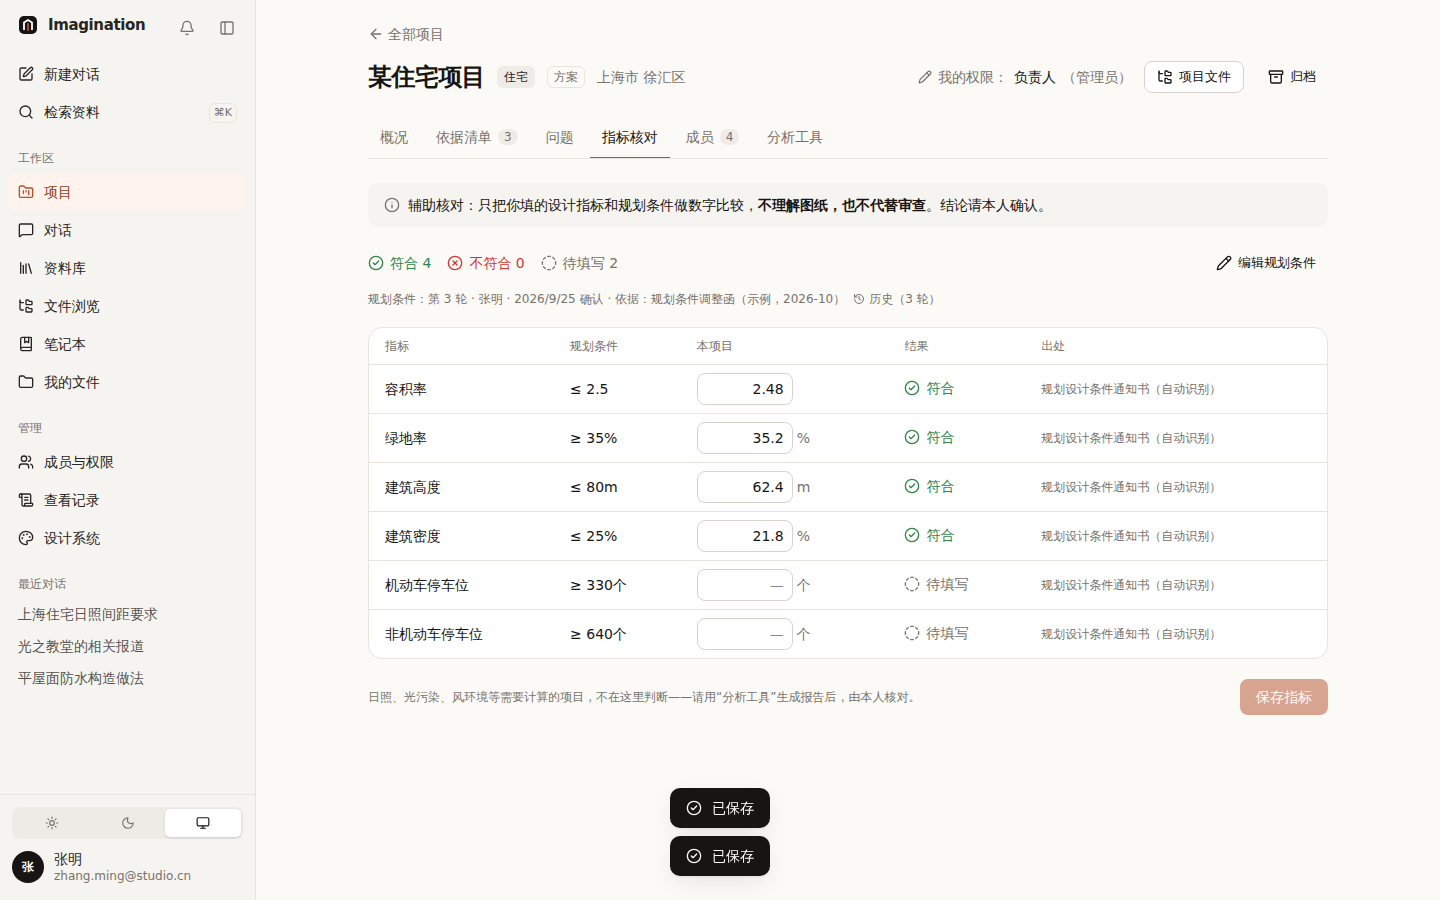
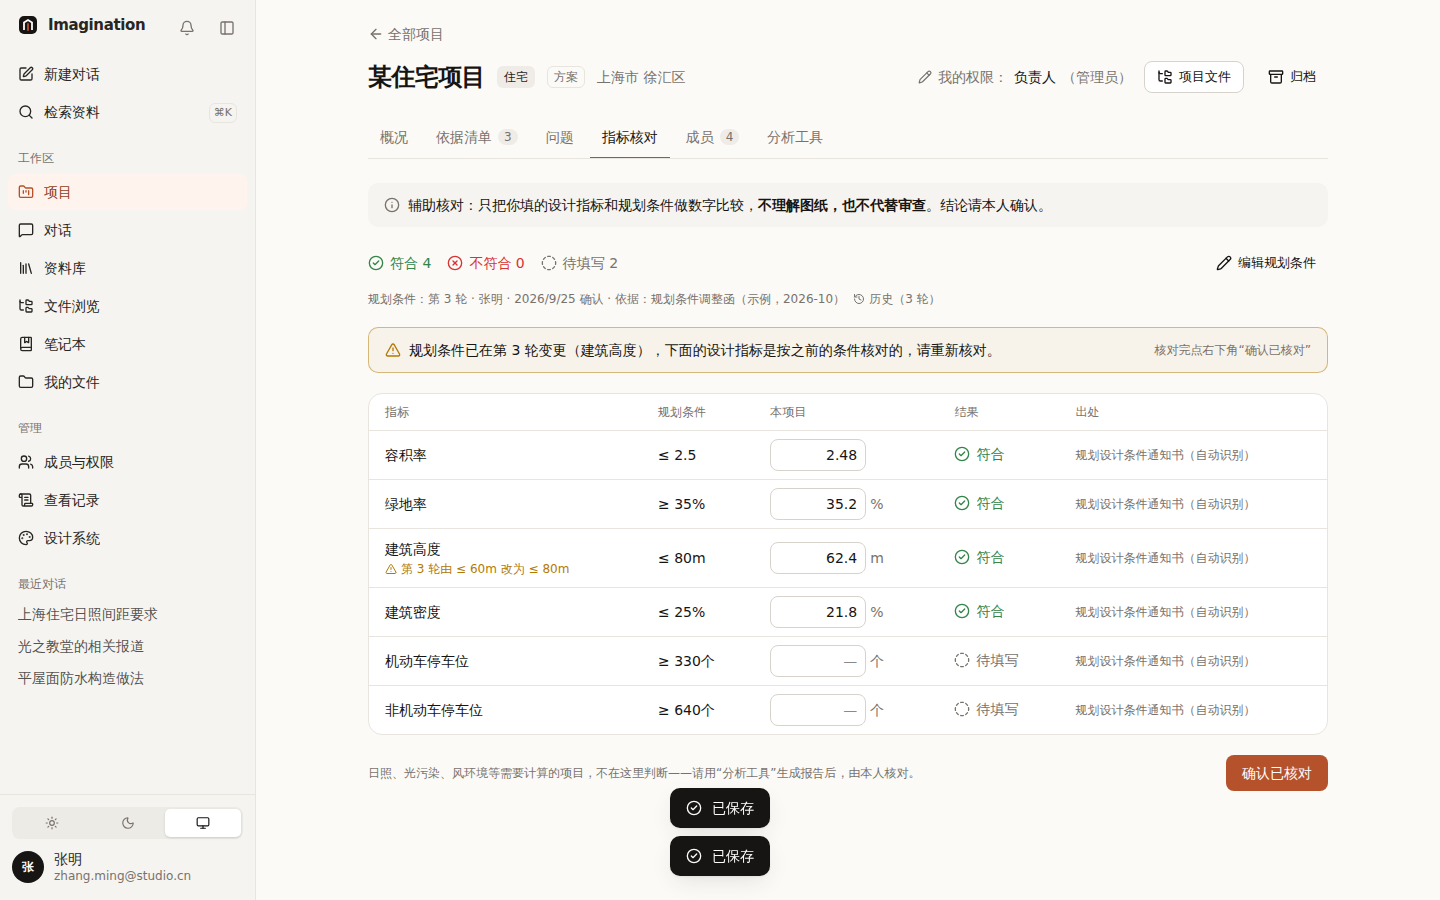
Prompt to recheck metrics after planning conditions change
Compare the round in effect at the last metrics check with the current
round; flag added/changed conditions, show the before/after on each row,
and let editors confirm with 确认已核对. Also store the original conditions
as round 1 before the first update so history diffs are correct.

Claude-Session: https://claude.ai/code/session_01Ji4dkRSRW8GH812x2RhLLd

diff --git a/src/components/projects/checks-tab.tsx b/src/components/projects/checks-tab.tsx
@@ -1,12 +1,12 @@
 "use client"
 
 import { useState } from "react"
-import { CheckCircle2Icon, CircleDashedIcon, FileSearchIcon, HistoryIcon, InfoIcon, PencilIcon, XCircleIcon } from "lucide-react"
+import { AlertTriangleIcon, CheckCircle2Icon, CircleDashedIcon, FileSearchIcon, HistoryIcon, InfoIcon, PencilIcon, XCircleIcon } from "lucide-react"
 
 import { Button } from "@/components/ui/button"
 import { runChecks, type CheckStatus } from "@/lib/projects/checks"
 import type { Condition, Project } from "@/lib/projects/types"
-import type { ConditionRound } from "@/lib/projects/condition-rounds"
+import { diffConditions, fmtCondition, type ConditionRound } from "@/lib/projects/condition-rounds"
 import { ConditionHistory } from "./condition-history"
 import { ConditionsEditor } from "./conditions-editor"
 import { cn } from "@/lib/utils"
@@ -56,6 +56,16 @@ export function ChecksTab({
   const dirty = project.conditions.some((c) => (project.metrics[c.key]?.toString() ?? "") !== draft[c.key])
   const counts = { pass: 0, fail: 0, missing: 0 }
   rows.forEach((r) => counts[r.status]++)
+
+  // 规划条件在最新一轮里变了（新增 / 修改），而设计指标还是之前核对的 → 提示重新核对（已定）
+  // 对比的基准：上次核对指标时生效的那一轮（中间改过好几轮也都算上）
+  const checkedAt = project.metricsCheckedAt ?? project.createdAt ?? 0
+  const baseline = [...rounds].reverse().find((r) => r.savedAt <= checkedAt) ?? rounds[0]
+  const changed =
+    current && baseline && baseline !== current && current.savedAt > checkedAt
+      ? diffConditions(baseline.conditions, current.conditions).filter((c) => c.kind !== "removed")
+      : []
+  const recheck = new Map(changed.map((c) => [c.label, c]))
 
   if (project.conditions.length === 0)
     return (
@@ -120,6 +130,15 @@ export function ChecksTab({
           </button>
         </p>
       )}
+      {changed.length > 0 && (
+        <p role="alert" className="flex flex-wrap items-center gap-2 rounded-lg border border-warning/50 bg-warning/5 px-4 py-3 text-sm">
+          <AlertTriangleIcon className="size-4 shrink-0 text-warning" />
+          <span className="min-w-0 flex-1">
+            规划条件在第 {baseline!.round + 1}{current!.round > baseline!.round + 1 ? `–${current!.round}` : ""} 轮有变更（{changed.map((c) => c.label).join("、")}），下面的设计指标是按之前的条件核对的，请重新核对。
+          </span>
+          {canEdit && <span className="text-xs text-muted-foreground">核对完点右下角“确认已核对”</span>}
+        </p>
+      )}
       {editorEl}
       <ConditionHistory open={history} onOpenChange={setHistory} rounds={rounds} />
 
@@ -139,7 +158,18 @@ export function ChecksTab({
               const { label, icon: Icon, cls } = STATUS[status]
               return (
                 <tr key={c.key} className="border-b last:border-0">
-                  <td className="px-4 py-2.5 font-medium">{c.label}</td>
+                  <td className="px-4 py-2.5 font-medium">
+                    {c.label}
+                    {recheck.has(c.label) && (
+                      <span className="mt-0.5 flex items-center gap-1 text-xs font-normal text-warning">
+                        <AlertTriangleIcon className="size-3" />
+                        {(() => {
+                          const ch = recheck.get(c.label)!
+                          return ch.kind === "changed" ? `由 ${fmtCondition(ch.before)} 改为 ${fmtCondition(ch.after)}` : "新增的条件"
+                        })()}
+                      </span>
+                    )}
+                  </td>
                   <td className="px-4 py-2.5 tabular-nums">
                     {c.op === "<=" ? "≤" : c.op === ">=" ? "≥" : "="} {c.value}
                     {c.unit}
@@ -180,10 +210,11 @@ export function ChecksTab({
         {canEdit && (
           <Button
             className="ml-auto"
-            disabled={!dirty}
+            // 需要重新核对时，即使数字没改也可以“确认已核对”
+            disabled={!dirty && changed.length === 0}
             onClick={() => onSave({ metrics: preview.metrics as Record<string, number | undefined> })}
           >
-            保存指标
+            {dirty ? "保存指标" : changed.length ? "确认已核对" : "保存指标"}
           </Button>
         )}
       </div>

diff --git a/src/lib/server/condition-rounds.ts b/src/lib/server/condition-rounds.ts
@@ -29,10 +29,17 @@ export function listRounds(p: Project): ConditionRound[] {
   return rounds
 }
 
+/**
+ * 修改规划条件之前调用（传入修改前的项目）：把“初始录入”存成正式的第 1 轮，
+ * 否则第 1 轮会被误算成修改后的内容，看不出改了什么。
+ */
+export function ensureBaselineRound(before: Project) {
+  const existing = listRounds(before)
+  if (existing.length === 1 && existing[0].id === `${before.id}-r0`) store.set(existing[0].id, existing[0])
+}
+
 export function addRound(p: Project, conditions: Condition[], by: string, note?: string): ConditionRound {
   const existing = listRounds(p)
-  // 第一次保存时，把之前的“初始录入”也存成正式的第 1 轮，历史才完整
-  if (existing.length === 1 && existing[0].id === `${p.id}-r0`) store.set(existing[0].id, existing[0])
   const r: ConditionRound = {
     id: `cr${Date.now().toString(36)}${Math.random().toString(36).slice(2, 6)}`,
     projectId: p.id,

diff --git a/src/app/api/projects/[id]/route.ts b/src/app/api/projects/[id]/route.ts
@@ -1,6 +1,6 @@
 import { NextResponse } from "next/server"
 
-import { addRound } from "@/lib/server/condition-rounds"
+import { addRound, ensureBaselineRound } from "@/lib/server/condition-rounds"
 import { getCurrentUser } from "@/lib/server/current-user"
 import { canEditContent, canManage, canView, getProject, patchNeeds, updateProject, type ProjectPatch } from "@/lib/server/projects"
 
@@ -30,6 +30,7 @@ export async function PATCH(req: Request, ctx: RouteContext<"/api/projects/[id]"
       { error: patchNeeds(patch) === "manage" ? "只有项目负责人可以修改项目信息和成员权限" : "你在这个项目里是“仅浏览”，不能修改" },
       { status: 403 },
     )
+  if (patch.conditions) ensureBaselineRound(p)
   const r = updateProject(p.id, patch, user.email)
   if (!r.ok) return NextResponse.json({ error: r.error }, { status: 400 })
   // 规划条件每确认保存一次算一轮，永久保留

diff --git a/src/lib/server/projects.ts b/src/lib/server/projects.ts
@@ -156,6 +156,7 @@ export function updateProject(id: string, patch: ProjectPatch, actor: string): {
     stage: patch.stage ?? p.stage,
     location: { ...p.location, ...patch.location },
     metrics: patch.metrics ? { ...p.metrics, ...patch.metrics } : p.metrics,
+    metricsCheckedAt: patch.metrics ? Date.now() : p.metricsCheckedAt,
     members: patch.members
       ? Array.from(new Map(patch.members.map((m) => [m.email, m])).values())
       : p.members,

diff --git a/src/lib/projects/types.ts b/src/lib/projects/types.ts
@@ -76,6 +76,8 @@ export interface Project {
   /** 已定：项目不能删除，只能归档。归档后只读保留，可以恢复 */
   archivedAt?: number
   archivedBy?: string
+  /** 设计指标最后一次保存 / 确认核对的时间：早于规划条件的最新一轮，就提示重新核对 */
+  metricsCheckedAt?: number
 }
 
 export const STAGES = ["方案", "初设", "施工图", "施工配合"]

diff --git a/CLAUDE.md b/CLAUDE.md
@@ -34,7 +34,7 @@
 
 - 平台是**辅助工具**：不做规范审查、不当审核方。界面措辞要体现“供参考，结论由本人确认”；机械核对（数字比较）可以做，但必须写明不代替审查。
 - 规范被替代时必须标出，并列出变更内容和影响范围（`src/lib/projects/changes.ts`）。
-- 项目：位置细到区，按位置自动匹配三级要求（`src/lib/projects/regional.ts`）；权限判断在 `src/lib/server/projects.ts`。新建项目 = 功能权限 `project_create`（管理员自带，其他人由管理员单独打开），负责人默认发起人。项目**不能删除，只能归档**（`archivedAt`，只读保留、可恢复；归档后 `canEditContent` 为假）。规划条件：手动录入 + PDF 识别（`src/lib/projects/extract-conditions.ts`，只产出带原文片段的候选，必须本人确认后才保存）；每次确认保存算一轮，**每一轮永久保留**（`src/lib/server/condition-rounds.ts`，可对比每轮的变化）。
+- 项目：位置细到区，按位置自动匹配三级要求（`src/lib/projects/regional.ts`）；权限判断在 `src/lib/server/projects.ts`。新建项目 = 功能权限 `project_create`（管理员自带，其他人由管理员单独打开），负责人默认发起人。项目**不能删除，只能归档**（`archivedAt`，只读保留、可恢复；归档后 `canEditContent` 为假）。规划条件：手动录入 + PDF 识别（`src/lib/projects/extract-conditions.ts`，只产出带原文片段的候选，必须本人确认后才保存）；每次确认保存算一轮，**每一轮永久保留**（`src/lib/server/condition-rounds.ts`，可对比每轮的变化）；条件变了而指标还没重新核对（`metricsCheckedAt`）时，在指标核对里提示重新核对。
 - 权限（已定）：管理员全部权限；项目角色三档 负责人 / 可编辑 / 仅浏览（`MemberRole`）——“编辑内容”（`canEditContent`）与“管理项目和成员权限”（`canManage`）分开校验。个人文件用同一套档位（`src/lib/access.ts`：view / edit）开放给同事——**只在平台内部**，不复制、不发送、没有外部链接（`src/lib/server/shares.ts`），主人或管理员可以设置，开放文件夹覆盖其中所有文件。管理员能看全部成员的“我的”文件（含已停用的人），以管理员身份打开时记入查看记录（`src/lib/server/audit.ts`，`/admin/audit`，只有管理员能看，永久保留、不能删除）。离职 = 管理员停用账号，所有访问自动失效。仅浏览时查看器传 `readOnly`：可以测量、校准，不能标记、框选。界面用“权限 / 谁可以访问”，不要用“分享链接”之类会让人以为文件被发出去的说法。权限下拉统一用 `src/components/share/access-menu.tsx`。
 
 ## 学习陪伴模式（用户希望边做边学）

diff --git a/docs/design-journal/014-conditions-archive.md b/docs/design-journal/014-conditions-archive.md
@@ -74,3 +74,14 @@
 |---|---|---|
 | ![](img/v14-g1-editor-note.png) | ![](img/v14-g2-checks-round3.png) | ![](img/v14-g3-history.png) |
 
+## 补充：条件变了，提示重新核对（负责人选了 B）
+
+- 规划条件在新的一轮里**新增或修改**了某条，而设计指标还是按之前的条件核对的：指标核对顶部出现提醒，受影响的行下面写明“由 ≤60m 改为 ≤80m”。
+- 对比的基准是“上次核对指标时生效的那一轮”，中间改过好几轮也都会算进来。
+- 有编辑权限的人核对完点“确认已核对”（数字没改也可以点），提醒消失；仅浏览的人能看到提醒，没有按钮。
+- 修正了一个问题：第一次保存时“初始录入”那一轮被误记成修改后的内容，导致历史里看不出变化；现在修改前先把原来的条件存成第 1 轮。
+
+| 条件变更后的提醒 | 确认已核对后 |
+|---|---|
+| ![](img/v14-h1-recheck.png) | ![](img/v14-h2-confirmed.png) |
+

diff --git a/docs/roadmap.md b/docs/roadmap.md
@@ -70,7 +70,7 @@
 | OneDrive 连接 / 微软账号登录 | 可以 | ⑥ | 待确认版本：看公司 OneDrive 网址是 sharepoint.com（国际版）还是 sharepoint.cn（世纪互联） |
 | NAS 内网代理 | 可以 | ⑥ | NAS 为群晖（已确认）；先用于存放备份 |
 | 服务器 | 必须 | ⑨ | **已定：云服务器；已配置** |
-| 规划条件历史：每轮确认都保留 | 必须 | — | **✓ 已完成** |
+| 规划条件历史：每轮确认都保留；条件变更后提示重新核对 | 必须 | — | **✓ 已完成** |
 | @全体成员（负责人） | 应该 | — | **✓ 已完成** |
 | 识别规则按真实通知书补充（退线、日照、配建等） | 应该 | ④ | 等负责人提供具体资料 |
 | Word 插件（在 Word 里查规范、插引用） | 可以 | ⑦ 之后 | 方案已讨论 |

diff --git a/docs/design-journal/015-mentions.md b/docs/design-journal/015-mentions.md
@@ -63,3 +63,5 @@
 |---|---|
 | ![](img/v14-g4-mention-all.png) | ![](img/v14-g5-bell-all.png) |
 
+- @全体成员通知项目里的**所有成员**，包括仅浏览（负责人已定）。
+
